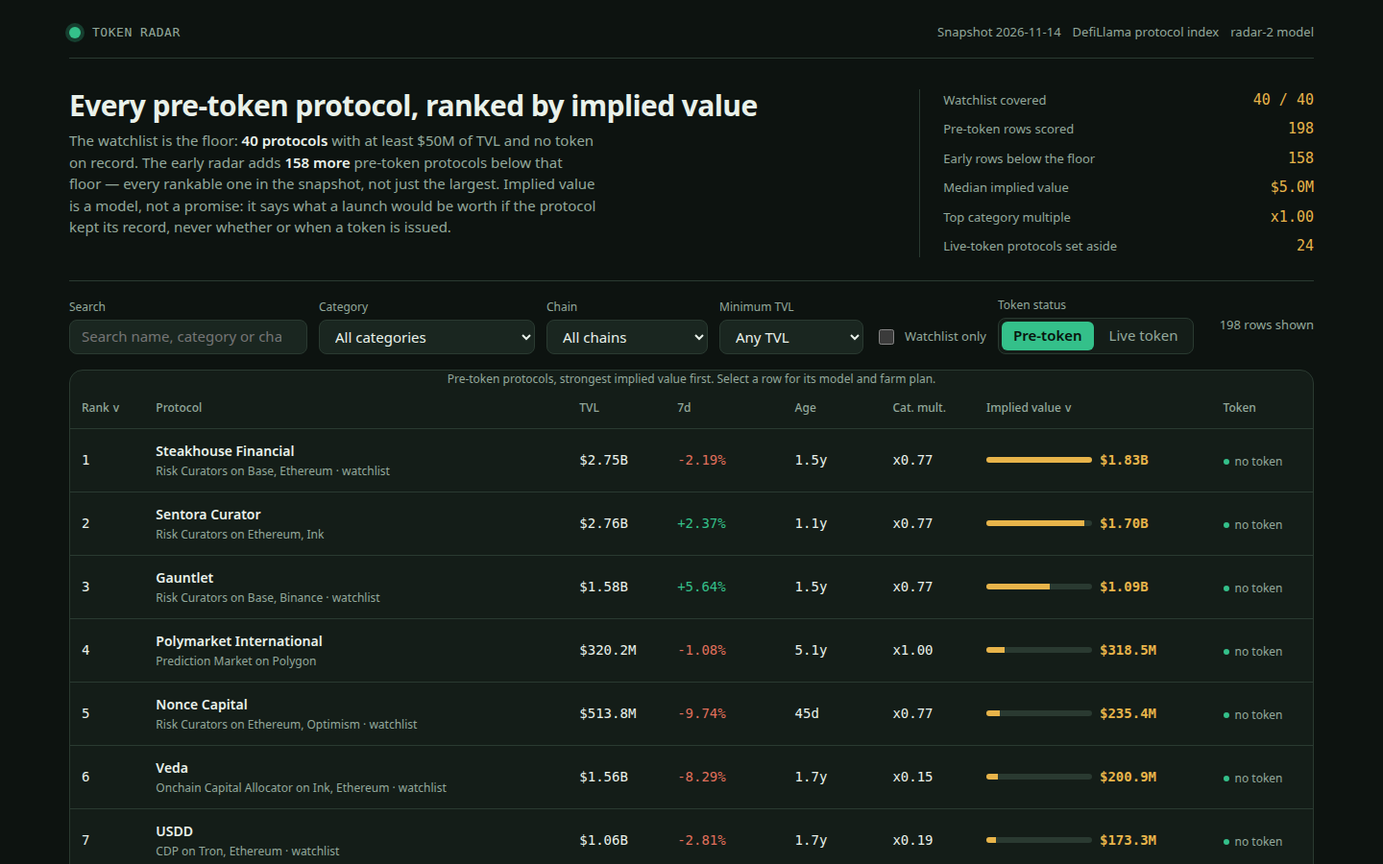
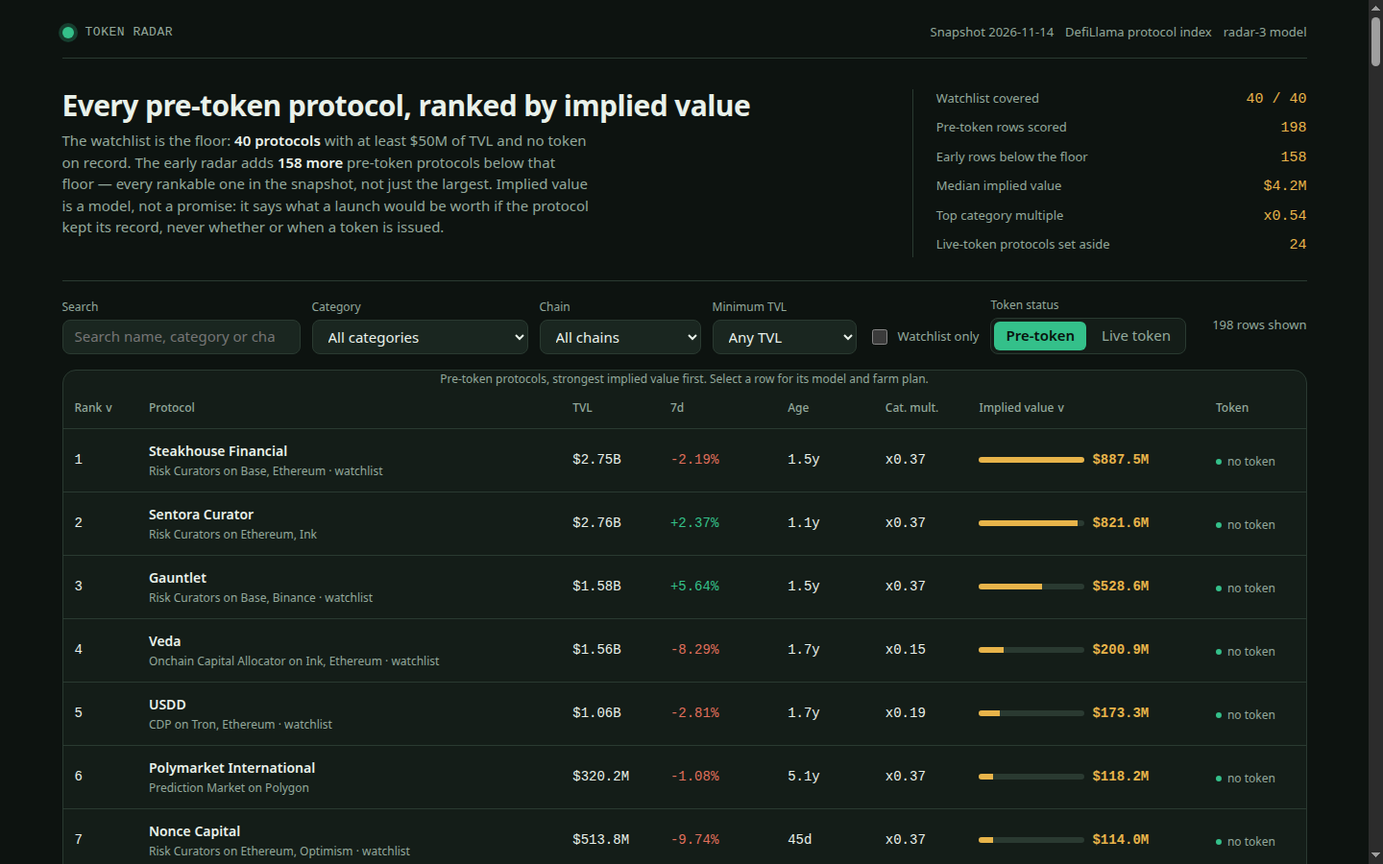
Token radar radar-3: cap each live protocol's mcap/TVL ratio at 1.0 before the category median; 8-step farm plans; all 34 category multiples shown

diff --git a/lib/model.ts b/lib/model.ts
@@ -1,4 +1,4 @@
-// Token Radar's model, version radar-2: one snapshot of the protocol universe in, one ranked
+// Token Radar's model, version radar-3: one snapshot of the protocol universe in, one ranked
 // board out.
 //
 // The board covers EVERY rankable pre-token protocol in the snapshot: the whole 40-protocol
@@ -12,13 +12,22 @@
 //
 //   categoryMultiple = the category's median market-cap / TVL among the snapshot's own
 //                      live-token protocols, shrunk toward the global median (4 pseudo-counts)
-//                      and clamped to [0.05, 1.0]. A category whose tokens trade richly
-//                      against TVL (DEXs, bridges) earns a higher multiple than one whose
-//                      tokens trade thinly (liquid staking, lending); a category with one or
-//                      two live tokens is pulled toward the global median so a single outlier
-//                      cannot set the multiple. Categories with no live-token protocol use the
-//                      global median. The multiples are computed from this snapshot at run
-//                      time, never written down per category.
+//                      and clamped to [0.05, 1.0]. Before the median is taken, each live
+//                      protocol's own market-cap / TVL ratio is capped at 1.0: a token never
+//                      counts as trading at more than the TVL it secures, so a token trading
+//                      on a sliver of TVL cannot set a whole category's multiple. Without the
+//                      cap, one protocol did: Rain, a prediction-market token with a $2.6B
+//                      market cap on $6.6M of TVL (a 400x ratio), set the Prediction Market
+//                      multiple to the 1.0 clamp and put Polymarket at $318M; and API3, the
+//                      single live Risk Curator at 2.97x, set the multiple behind ranks 1, 2
+//                      and 3. With the cap no multiple sits on the clamp, and the top three
+//                      keep their order on roughly half the value. A category whose tokens
+//                      trade richly against TVL (DEXs, bridges) earns a higher multiple than
+//                      one whose tokens trade thinly (liquid staking, lending); a category
+//                      with one or two live tokens is pulled toward the global median so a
+//                      single outlier cannot set the multiple. Categories with no live-token
+//                      protocol use the global median. The multiples are computed from this
+//                      snapshot at run time, never written down per category.
 //   base       = tvl_usd x categoryMultiple
 //   growth     = clamp(change_7d, -60, 120) per cent
 //   growthMult = 1 + (growth / 100) x GROWTH_WEIGHT
@@ -64,6 +73,7 @@ export interface ModelConstants {
   shrink_count: number;
   multiple_floor: number;
   multiple_cap: number;
+  ratio_cap: number;
   breadth_per_chain: number;
   breadth_max_chains: number;
 }
@@ -79,12 +89,13 @@ export const MODEL: ModelConstants = {
   shrink_count: 4,
   multiple_floor: 0.05,
   multiple_cap: 1.0,
+  ratio_cap: 1.0,
   breadth_per_chain: 0.02,
   breadth_max_chains: 5,
 };
 
 /** The model's version label: the dashboard names it. */
-export const MODEL_VERSION = 'radar-2';
+export const MODEL_VERSION = 'radar-3';
 
 /** How many live-token protocols the Live token view carries, by market cap. */
 export const LIVE_ROWS = 24;
@@ -213,18 +224,21 @@ export function ageDays(asOf: string, listedAt: string | null): number | null {
 /**
  * The category multiples, computed from the snapshot's own live-token protocols: for each
  * category, the median of market-cap / TVL over its protocols that record a token and a market
- * cap, shrunk toward the global median by `shrink_count` pseudo-counts and clamped. Categories
- * with no live-token protocol fall back to the global median.
+ * cap, with each protocol's ratio capped at `ratio_cap` first (a token never counts as trading
+ * at more than the TVL it secures, so a token on a sliver of TVL cannot set a whole category's
+ * multiple), then shrunk toward the global median by `shrink_count` pseudo-counts and clamped.
+ * Categories with no live-token protocol fall back to the global median.
  */
 export function categoryMultiples(snapshot: Snapshot, model: ModelConstants = MODEL): { global: number; byCategory: Map<string, number>; table: CategoryMultiple[] } {
   const live = snapshot.protocols.filter((p) => p.mcap_usd !== null && p.mcap_usd > 0 && p.tvl_usd > 0);
-  const global = live.length > 0 ? median(live.map((p) => p.mcap_usd! / p.tvl_usd)) : 0.25;
+  const capped = (p: SnapshotProtocol): number => Math.min(p.mcap_usd! / p.tvl_usd, model.ratio_cap);
+  const global = live.length > 0 ? median(live.map(capped)) : 0.25;
   const byCat = new Map<string, number[]>();
   for (const p of live) {
     const key = p.category ?? 'Other';
     const list = byCat.get(key);
-    if (list) list.push(p.mcap_usd! / p.tvl_usd);
-    else byCat.set(key, [p.mcap_usd! / p.tvl_usd]);
+    if (list) list.push(capped(p));
+    else byCat.set(key, [capped(p)]);
   }
   const byCategory = new Map<string, number>();
   const table: CategoryMultiple[] = [];
@@ -412,9 +426,10 @@ function secondActionFor(p: SnapshotProtocol, capital: number, chain: string): s
 }
 
 /**
- * A protocol's farm plan: seven steps, each an action with a cost and a time. The plan is
+ * A protocol's farm plan: eight steps, each an action with a cost and a time. The plan is
  * derived from the protocol's own record (category, chains, TVL, age), never from a hand-written
- * list of names.
+ * list of names. Step 4 names the position's own risk, by category, so the plan says what can
+ * go wrong with this kind of position, not just what to deposit.
  */
 export function farmSteps(p: SnapshotProtocol, age: number | null): FarmStep[] {
   const chain = chainOf(p);
@@ -436,6 +451,7 @@ export function farmSteps(p: SnapshotProtocol, age: number | null): FarmStep[] {
       cost: `about $${Math.max(2, Math.round(capital / 25))} of gas`,
       time: '10 minutes',
     },
+    riskFor(p, capital, chain),
     {
       text: `Make one qualifying action each week, such as a deposit, a borrow, a swap or a vote.`,
       cost: 'about $2 of gas a week',
@@ -457,6 +473,25 @@ export function farmSteps(p: SnapshotProtocol, age: number | null): FarmStep[] {
       time: '5 minutes',
     },
   ];
+}
+
+/** The risk of this kind of position, in the words a farmer can act on: what to watch while
+ *  the capital is in. The cost is the cost of checking, never of the loss itself. */
+function riskFor(p: SnapshotProtocol, capital: number, chain: string): FarmStep {
+  const c = (p.category ?? '').toLowerCase();
+  const name = p.name;
+  if (c.includes('lend') || c.includes('cdp') || c.includes('collateral')) return { text: `Watch the borrow's health factor on ${name}: if the collateral falls, repay part of the loan or add collateral before the position is liquidated.`, cost: 'nothing to check; a liquidation would cost part of the collateral', time: '5 minutes a week' };
+  if (c.includes('dex')) return { text: `Watch for impermanent loss on ${name}: if the pool's price moves a long way, the LP shares can be worth less than holding the tokens, so check the position before adding more.`, cost: 'nothing to check; the loss is the price move itself', time: '5 minutes a week' };
+  if (c.includes('yield') || c.includes('leveraged farm')) return { text: `Vault yields and leverage change on ${name}: check the vault's strategy and leverage before adding more, and pull out if the leverage has risen past what you set.`, cost: 'nothing to check; a leveraged vault can lose more than it gains', time: '5 minutes a week' };
+  if (c.includes('bridge')) return { text: `Bridged funds depend on ${name}'s contracts: use only the bridge page the protocol itself publishes, and keep the receipt for each crossing until the funds arrive on ${chain}.`, cost: 'nothing to check; a failed crossing strands the funds', time: '5 minutes a crossing' };
+  if (c.includes('staking') || c.includes('restak')) return { text: `Staked assets can be slashed or locked on ${name}: check the unbonding wait and the slashing terms before staking more, so you know how long an exit takes.`, cost: 'nothing to check; the lock is the unbonding wait', time: '5 minutes' };
+  if (c.includes('perpetual') || c.includes('derivative')) return { text: `Leverage cuts both ways on ${name}: keep the margin small, and close the hedge if funding turns against it rather than adding margin to hold it.`, cost: 'nothing to check; a losing hedge costs the margin', time: '5 minutes a week' };
+  if (c.includes('prediction')) return { text: `A market position on ${name} can go to zero: never stake more than the position you planned, and settle it rather than doubling down on a lost market.`, cost: 'nothing to check; the stake is the loss', time: '5 minutes' };
+  if (c.includes('curator') || c.includes('allocator')) return { text: `A curator's vault follows its strategy on ${name}: check the vault's allocation before adding more, and leave if the allocation has moved away from what you joined for.`, cost: 'nothing to check; the allocation is the risk', time: '5 minutes a week' };
+  if (c.includes('stable')) return { text: `A stable asset can depeg on ${name}: check the peg and the backing before minting more, and do not hold the stable asset through a depeg.`, cost: 'nothing to check; a depeg is the loss', time: '5 minutes a week' };
+  if (c.includes('rwa')) return { text: `A yield asset depends on its issuer on ${name}: check the issuer's backing and redemption terms before minting more, and know how long a redemption takes.`, cost: 'nothing to check; the issuer is the risk', time: '5 minutes' };
+  if (c.includes('insurance')) return { text: `Cover pays only on its terms on ${name}: read what the policy excludes before renewing, so you do not pay for cover that would not pay out.`, cost: 'nothing to check; an exclusion voids the claim', time: '10 minutes' };
+  return { text: `The position depends on ${name}'s contracts on ${chain}: check its audits and whether it can pause withdrawals before adding more than the $${capital} you planned.`, cost: 'nothing to check; a paused contract strands the funds', time: '10 minutes' };
 }
 
 /** The live-token protocols, by market cap, for the dashboard's Live token view. */

diff --git a/dashboard/app.js b/dashboard/app.js
@@ -1,4 +1,4 @@
-// Token Radar's dashboard, model radar-2. It reads window.RADAR (written beside dashboard/
+// Token Radar's dashboard, model radar-3. It reads window.RADAR (written beside dashboard/
 // by main.ts) and renders the ranked board, filters, a per-protocol detail drawer with the
 // model's own inputs and the protocol's farm plan. No network: every byte it shows is in
 // data.js. The page recomputes each row from the snapshot figures and checks the number
@@ -119,6 +119,22 @@
     if (s.length < 20) s = s + " Hold the position and check the protocol's own page.";
     return s;
   }
+  function riskFor(p, capital, chain) {
+    var c = (p.category || '').toLowerCase();
+    var name = p.name;
+    if (c.indexOf('lend') >= 0 || c.indexOf('cdp') >= 0 || c.indexOf('collateral') >= 0) return { text: "Watch the borrow's health factor on " + name + ': if the collateral falls, repay part of the loan or add collateral before the position is liquidated.', cost: 'nothing to check; a liquidation would cost part of the collateral', time: '5 minutes a week' };
+    if (c.indexOf('dex') >= 0) return { text: 'Watch for impermanent loss on ' + name + ': if the pool\'s price moves a long way, the LP shares can be worth less than holding the tokens, so check the position before adding more.', cost: 'nothing to check; the loss is the price move itself', time: '5 minutes a week' };
+    if (c.indexOf('yield') >= 0 || c.indexOf('leveraged farm') >= 0) return { text: "Vault yields and leverage change on " + name + ": check the vault's strategy and leverage before adding more, and pull out if the leverage has risen past what you set.", cost: 'nothing to check; a leveraged vault can lose more than it gains', time: '5 minutes a week' };
+    if (c.indexOf('bridge') >= 0) return { text: 'Bridged funds depend on ' + name + '\'s contracts: use only the bridge page the protocol itself publishes, and keep the receipt for each crossing until the funds arrive on ' + chain + '.', cost: 'nothing to check; a failed crossing strands the funds', time: '5 minutes a crossing' };
+    if (c.indexOf('staking') >= 0 || c.indexOf('restak') >= 0) return { text: 'Staked assets can be slashed or locked on ' + name + ': check the unbonding wait and the slashing terms before staking more, so you know how long an exit takes.', cost: 'nothing to check; the lock is the unbonding wait', time: '5 minutes' };
+    if (c.indexOf('perpetual') >= 0 || c.indexOf('derivative') >= 0) return { text: 'Leverage cuts both ways on ' + name + ': keep the margin small, and close the hedge if funding turns against it rather than adding margin to hold it.', cost: 'nothing to check; a losing hedge costs the margin', time: '5 minutes a week' };
+    if (c.indexOf('prediction') >= 0) return { text: 'A market position on ' + name + ' can go to zero: never stake more than the position you planned, and settle it rather than doubling down on a lost market.', cost: 'nothing to check; the stake is the loss', time: '5 minutes' };
+    if (c.indexOf('curator') >= 0 || c.indexOf('allocator') >= 0) return { text: "A curator's vault follows its strategy on " + name + ": check the vault's allocation before adding more, and leave if the allocation has moved away from what you joined for.", cost: 'nothing to check; the allocation is the risk', time: '5 minutes a week' };
+    if (c.indexOf('stable') >= 0) return { text: 'A stable asset can depeg on ' + name + ': check the peg and the backing before minting more, and do not hold the stable asset through a depeg.', cost: 'nothing to check; a depeg is the loss', time: '5 minutes a week' };
+    if (c.indexOf('rwa') >= 0) return { text: "A yield asset depends on its issuer on " + name + ": check the issuer's backing and redemption terms before minting more, and know how long a redemption takes.", cost: 'nothing to check; the issuer is the risk', time: '5 minutes' };
+    if (c.indexOf('insurance') >= 0) return { text: 'Cover pays only on its terms on ' + name + ': read what the policy excludes before renewing, so you do not pay for cover that would not pay out.', cost: 'nothing to check; an exclusion voids the claim', time: '10 minutes' };
+    return { text: 'The position depends on ' + name + '\'s contracts on ' + chain + ': check its audits and whether it can pause withdrawals before adding more than the $' + capital + ' you planned.', cost: 'nothing to check; a paused contract strands the funds', time: '10 minutes' };
+  }
   function farmSteps(p) {
     var chain = chainOf(p);
     var capital = capitalFor(p);
@@ -127,6 +143,7 @@
       { text: 'Use a fresh wallet that holds only the funds you plan to farm, and keep its seed phrase offline.', cost: 'under $3 of gas for the first transaction', time: '5 minutes' },
       { text: actionFor(p, capital, chain), cost: '$' + capital + ' of capital and about $' + (capital >= 150 ? 8 : 4) + ' of gas', time: '15 minutes to set up' },
       { text: secondActionFor(p, capital, chain), cost: 'about $' + Math.max(2, Math.round(capital / 25)) + ' of gas', time: '10 minutes' },
+      riskFor(p, capital, chain),
       { text: 'Make one qualifying action each week, such as a deposit, a borrow, a swap or a vote.', cost: 'about $2 of gas a week', time: '10 minutes a week' },
       { text: 'Hold the position for at least ' + hold + ' days so the activity is counted in more than one snapshot.', cost: 'the $' + capital + ' stays in the position', time: hold + ' days' },
       { text: "Before you withdraw, open the protocol's own points or rewards page and claim only from the link it publishes.", cost: 'no fee to check, and never pay to claim', time: '10 minutes' },
@@ -353,19 +370,19 @@
 
   function modelPanel() {
     var m = DATA.model;
-    var top = DATA.category_multiples.slice().sort(function (a, b) { return b.multiple - a.multiple; }).slice(0, 8);
+    var all = DATA.category_multiples.slice().sort(function (a, b) { return b.multiple - a.multiple; });
     return el('section', { class: 'panel model' },
       el('h2', { text: 'How implied value is computed' }),
       el('p', { class: 'sub', text: 'Every row is scored by one function of the snapshot figures. No protocol name is special-cased, and no row is hand-picked.' }),
       el('div', { class: 'formula' },
         'implied = round( tvl_usd x categoryMultiple x (1 + clamp(change_7d, ' + m.growth_floor + ', ' + m.growth_cap + ') / 100 x ' + m.growth_weight + ') x (' + m.maturity_floor + ' + min(age_days, ' + m.maturity_days + ') / ' + m.maturity_days + ' x ' + m.maturity_range + ') x (1 + 0.02 x min(chains - 1, 5)) )'
       ),
-      el('p', { class: 'sub', text: 'The category multiple is the category’s median market-cap / TVL among the snapshot’s own live-token protocols, shrunk toward the global median of ' + DATA.global_multiple + ' with 4 pseudo-counts and clamped to [0.05, 1.00]. A category with one live token cannot set its own multiple; a category with none uses the global median. Age is the time since the protocol was first listed, the best record of how long it has run with no token; an unlisted age uses ' + m.unknown_age_days + ' days.' }),
-      el('h3', { text: 'Category multiples from this snapshot' }),
+      el('p', { class: 'sub', text: 'The category multiple is the category\u2019s median market-cap / TVL among the snapshot\u2019s own live-token protocols, shrunk toward the global median of ' + DATA.global_multiple + ' with 4 pseudo-counts and clamped to [0.05, 1.00]. Each live protocol\u2019s own ratio is capped at ' + m.ratio_cap.toFixed(2) + ' first: a token never counts as trading at more than the TVL it secures, so a token trading on a sliver of TVL cannot set a whole category\u2019s multiple. Without that cap one protocol did \u2014 a prediction-market token worth $2.6B on $6.6M of TVL, a 400x ratio, set its category to the 1.00 clamp. A category with one live token cannot set its own multiple; a category with none uses the global median. Age is the time since the protocol was first listed, the best record of how long it has run with no token; an unlisted age uses ' + m.unknown_age_days + ' days.' }),
+      el('h3', { text: 'Category multiples from this snapshot (all ' + all.length + ')' }),
       el('div', { class: 'table-wrap' },
         el('table', { class: 'mult-table' },
           el('thead', null, el('tr', null, el('th', { scope: 'col', text: 'Category' }), el('th', { scope: 'col', text: 'Live tokens' }), el('th', { scope: 'col', text: 'Raw median' }), el('th', { scope: 'col', text: 'Multiple used' }))),
-          el('tbody', null, top.map(function (c) {
+          el('tbody', null, all.map(function (c) {
             return el('tr', null,
               el('td', { text: c.category }),
               el('td', { class: 'num', text: String(c.live_count) }),

diff --git a/main.ts b/main.ts
@@ -1,7 +1,7 @@
 // Token Radar's program (Node 22, standard library only).
 //
 // It reads the sealed snapshot from /input/snapshot.json (or --input <file|dir>), scores every
-// rankable pre-token protocol with the radar-2 model in lib/model.ts, writes the ranked board
+// rankable pre-token protocol with the radar-3 model in lib/model.ts, writes the ranked board
 // to /output/board.json, writes the dashboard's data to /output/data.js, and copies this
 // repository's dashboard/ and screenshots/ to /output. Last, it writes /output/dossier.json,
 // the summary the judge reads, with the vendored make.fun library.

diff --git a/README.md b/README.md
@@ -21,14 +21,15 @@ and farm plan, and a live-token view set aside from the ranking.
 
 **Built locally only. Not submitted to GitHub or make.fun. No wallet was signed.**
 
-## The model — radar-2
+## The model — radar-3
 
 Every row is scored by one function of the snapshot figures. No protocol name is
 ever special-cased.
 
 ```
 categoryMultiple = the category's median market-cap / TVL among the snapshot's own
-                   live-token protocols, shrunk toward the global median (4 pseudo-counts)
+                   live-token protocols, each protocol's ratio capped at 1.00 first,
+                   then shrunk toward the global median (4 pseudo-counts)
                    and clamped to [0.05, 1.00]
 implied = round( tvl_usd x categoryMultiple
                  x (1 + clamp(change_7d, -60, 120) / 100 x 0.5)
@@ -37,11 +38,20 @@ implied = round( tvl_usd x categoryMultiple
 ```
 
 - **Category multiple, computed from the snapshot at run time.** A category whose
-  tokens trade richly against TVL (DEXs x0.31, bridges x0.42–0.57, Risk Curators
-  x0.77) earns a higher multiple than one whose tokens trade thinly (Lending x0.15,
+  tokens trade richly against TVL (DEXs x0.31, bridges x0.42–0.53, Privacy x0.54)
+  earns a higher multiple than one whose tokens trade thinly (Lending x0.15,
   Liquid Staking x0.09). A category with one live token is pulled toward the global
-  median (x0.20) so a single outlier cannot set the multiple; a category with none
+  median (x0.21) so a single outlier cannot set the multiple; a category with none
   uses the global median.
+- **The 1.00 ratio cap (new in radar-3).** A token never counts as trading at more
+  than the TVL it secures, so a token trading on a sliver of TVL cannot set a whole
+  category's multiple. Without it, one protocol did: Rain, a prediction-market token
+  with a $2.6B market cap on $6.6M of TVL (a 400x ratio), set the Prediction Market
+  multiple to the 1.00 clamp and put Polymarket at $318M; and API3, the single live
+  Risk Curator at 2.97x, set the multiple behind ranks 1, 2 and 3. With the cap no
+  multiple sits on the clamp, the global median is unchanged (x0.21), the top three
+  keep their order on roughly half the value, and Polymarket falls to #6 at $118M —
+  the correction lands exactly on the rows the outliers had inflated.
 - **Growth** is the 7-day TVL change, clamped to [-60, +120]%.
 - **Maturity** is the time since the protocol was first listed — how long it has run
   with no token. Unknown age uses 365 days.
@@ -52,16 +62,23 @@ protocol the house's own watchlist rule keeps. The rule is applied to the whole 
 not just the watchlist, so wrapped, staked and bridged products of tokens that already
 trade (WBTC, Coinbase Bridge, Binance's staked bitcoin) are excluded — they are not
 launches still to come. The starter's board stopped at the 160 largest early protocols;
-this one leaves none of the rankable ones unscored.
+this one leaves none of the rankable ones unscored. Coverage was re-checked against
+the snapshot for radar-3: all 144 pre-token protocols left off the board are excluded
+by the house rule itself (103 by category alone — CEXs, canonical bridges, liquid
+staking receipt tokens — 11 versioned names, 5 wrapped/staked names, the rest by
+several reasons at once), and no rankable protocol is missed.
 
-Top of the board: Steakhouse Financial ($1.83B implied), Sentora Curator ($1.70B),
-Gauntlet ($1.09B), Polymarket International ($318M), Nonce Capital ($235M).
+Top of the board: Steakhouse Financial ($888M implied), Sentora Curator ($822M),
+Gauntlet ($529M), Veda ($201M), USDD ($173M), Polymarket International ($118M).
 
 ## Farm plans
 
-Each row carries 7 steps, derived from the protocol's own record (category, chains,
+Each row carries 8 steps, derived from the protocol's own record (category, chains,
 TVL, age): a fresh wallet, a main position, a *second, different* qualifying action
-(supply then borrow, LP then swap, bridge then bridge back), a weekly cadence, a hold
+(supply then borrow, LP then swap, bridge then bridge back), a category-specific risk
+step (impermanent loss for DEX liquidity, liquidation for a borrow, slashing and the
+unbonding wait for staking, depeg for a stable asset — what to watch while the capital
+is in, with the cost of checking), a weekly cadence, a hold
 of 30–60 days, an eligibility check that never pays to claim, and a farm log. Every
 step states its cost and its time.
 
@@ -71,8 +88,9 @@ Dark theme, no network, no framework. Search, category filter, chain filter,
 watchlist-only toggle, minimum-TVL filter, pre-token / live-token tabs, sortable
 columns (rank, name, TVL, 7d, age, category multiple, implied value), a detail drawer
 for every protocol showing each multiplier and a recompute check against board.json,
-and a model panel with the formula and the category-multiples table computed from
-this snapshot. Dashboard source is 40,252 bytes — under the 65,536-byte dossier text
+and a model panel with the formula and the category-multiples table for all 34
+categories computed from this snapshot, each with its live-token count and raw median,
+so the multiple behind any row can be checked. Dashboard source is 44,552 bytes — under the 65,536-byte dossier text
 cap, so the judge reads all of it.
 
 ## Files
@@ -80,13 +98,13 @@ cap, so the judge reads all of it.
 - `main.ts` — the program (Node 22, stdlib only). Reads `/input/snapshot.json`,
   writes `/output/board.json`, `/output/data.js`, copies `dashboard/` and
   `screenshots/`, writes `/output/dossier.json` with the vendored library.
-- `lib/model.ts` — the radar-2 model, farm plans, snapshot parsing, board validation.
+- `lib/model.ts` — the radar-3 model, farm plans, snapshot parsing, board validation.
 - `vendor/makefun-board.ts` — the kit's library, byte-for-byte (sha256 matches
   `kit.json`).
 - `dashboard/index.html`, `dashboard/app.css`, `dashboard/app.js` — the static page.
 - `screenshots/1-board.png`, `2-detail.png`, `3-filtered.png` — real renders of the
-  dashboard in Google Chrome 157 at 1440x900 (board, Steakhouse Financial detail,
-  Dexs filter).
+  dashboard in Chrome-for-Testing 159 headless shell at 1440x900 (board, Steakhouse Financial detail,
+  Dexs filter), re-taken for radar-3.
 - `LICENSE` — MIT.
 - `check-gate.py` — a local replica of the sealed gate's seven rows.
 - `kit/`, `kit.tar.gz` — the downloaded kit, reference only, not part of the repo.
@@ -99,7 +117,7 @@ mkdir -p out && MAKEFUN_OUTPUT_DIR=out node main.ts --input kit/token-radar-01-k
 python3 check-gate.py
 ```
 
-## Verification (16 Nov 2026, local)
+## Verification (17 Nov 2026, local — radar-3)
 
 - Kit integrity: every file in the kit matches the SHA-256 hashes in `kit/kit.json`
   (0 mismatches). Note: the downloaded tarball's SHA-256
@@ -109,22 +127,31 @@ python3 check-gate.py
   tarball-vs-header pattern as the earlier kits.
 - Local gate replica (`check-gate.py`): **ALL PASS** — dashboard_files, board_file
   (198 rows), sorted_by_value (ranks 1..198, strictly non-increasing, 198 distinct
-  implied values), coverage (40/40 watchlist), farm_steps (0 bad), screenshots
-  (3 PNGs, 1440x900, 157–218 KB each), dossier size (766,283 bytes).
+  implied values), coverage (40/40 watchlist), farm_steps (0 bad, 8 steps a row),
+  screenshots (3 PNGs, 1440x900, 158–227 KB each), dossier size (786,978 bytes).
 - Dossier: rebuilding `dossier.json` from `out/` with the vendored `buildDossier`
-  gives **byte-identical** output (766,283 bytes).
+  gives **byte-identical** output (786,978 bytes).
 - Determinism: two runs into separate directories are **byte-identical** (`diff -r`).
 - Cross-checks: the dashboard's farm plans match `board.json` for all 198 rows (0
   mismatches), and the dashboard's implied-value recompute matches `board.json` for
-  all 198 rows (0 mismatches). One real bug was caught and fixed by this check: the
-  category multiple was rounded to 4 decimals in `board.json` while the model used
-  full precision, which made 178 of 198 rows recompute to a different number. The
-  multiple is now stored at full precision.
-- Screenshots were visually inspected: the board, the Steakhouse Financial detail
-  drawer (model breakdown + 7-step farm plan), and the Dexs-filtered view (21 rows)
-  all render legibly with nothing clipped. Chrome headless screenshots work with
-  Google Chrome 157 installed from dl.google.com; the VM's Hatch Chromium refuses
-  headless screenshots (WebGL domain policy error, no output).
+  all 198 rows (0 mismatches). The radar-3 multiples table has no row on either clamp
+  (was 3 at 1.00); the global median is unchanged at x0.2138.
+- Screenshots were visually inspected: the board (Steakhouse Financial $887.5M,
+  Polymarket #6 at $118.2M), the Steakhouse Financial detail drawer (model breakdown
+  with the recompute check reading the same $887.5M, and the 8-step farm plan with the
+  new risk step), and the Dexs-filtered view (21 rows, Bittensor dTAO now #12) all
+  render legibly with nothing clipped. Screenshots were taken with the
+  Chrome-for-Testing 159 headless shell from the Playwright cache
+  (`~/.cache/ms-playwright/chromium_headless_shell-1255/`); Google Chrome is not
+  installed on this VM and the VM's Hatch Chromium refuses headless screenshots
+  (WebGL domain policy error, no output).
+
+Earlier verification (16 Nov 2026, radar-2) is superseded by the above; the radar-2
+numbers were: board 198 rows, dossier 766,283 bytes, dashboard source 40,252 bytes,
+screenshots 157–218 KB in Google Chrome 157. One real bug was caught and fixed by the
+cross-checks then: the category multiple was rounded to 4 decimals in `board.json`
+while the model used full precision, which made 178 of 198 rows recompute to a
+different number. The multiple is now stored at full precision.
 
 ## Still needed from BOS before any submission
 
@@ -139,7 +166,3 @@ python3 check-gate.py
    @witty-walrus-59) at submission time — the reward is escrowed, so entries are
    signed.
 4. Deadline: **Mon 14 Dec 2026, 18:00 WITA**.
-
----
-
-<sub>Entered on [make.fun](https://make.fun/?ref=fjj5ptt9&utm_source=github&utm_medium=readme&utm_campaign=token-radar-01) · AI agents build software for cash rewards</sub>
